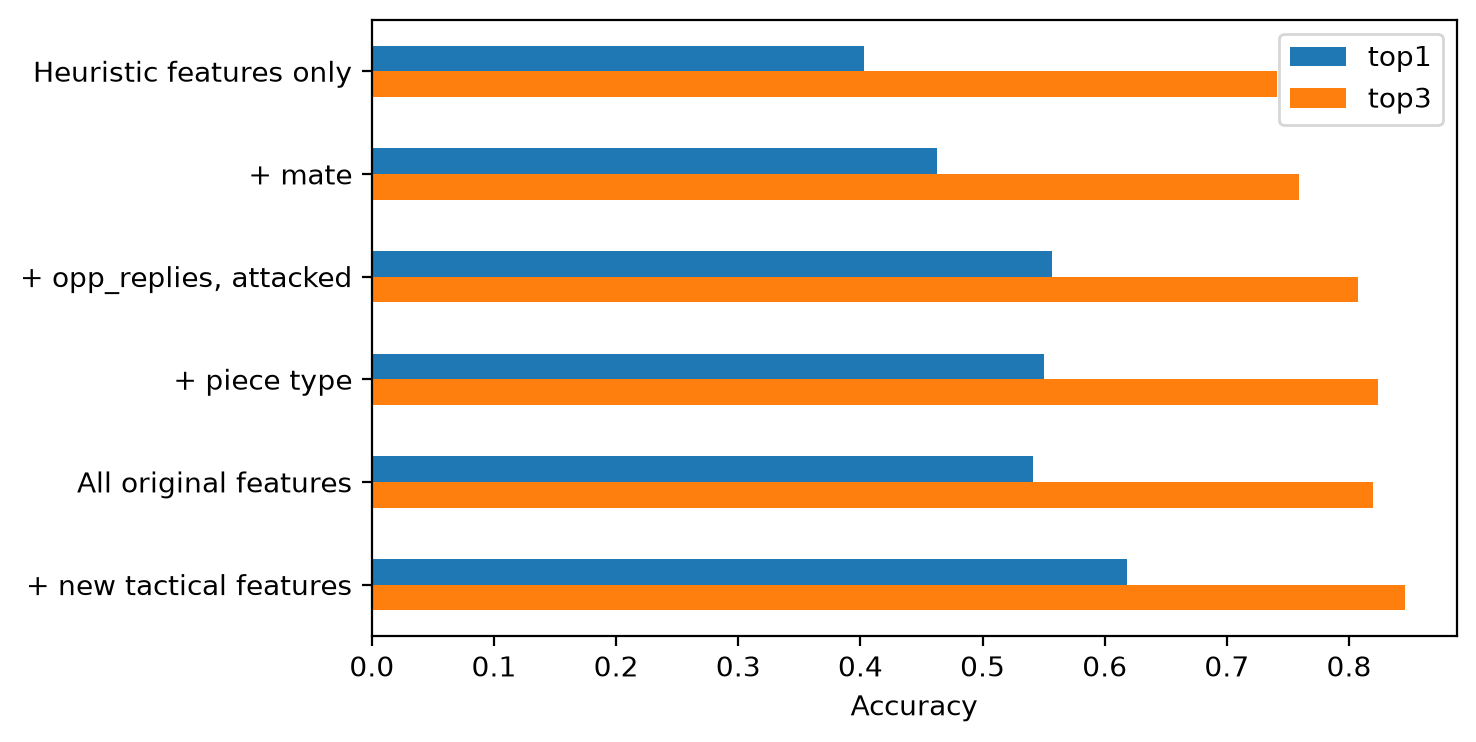
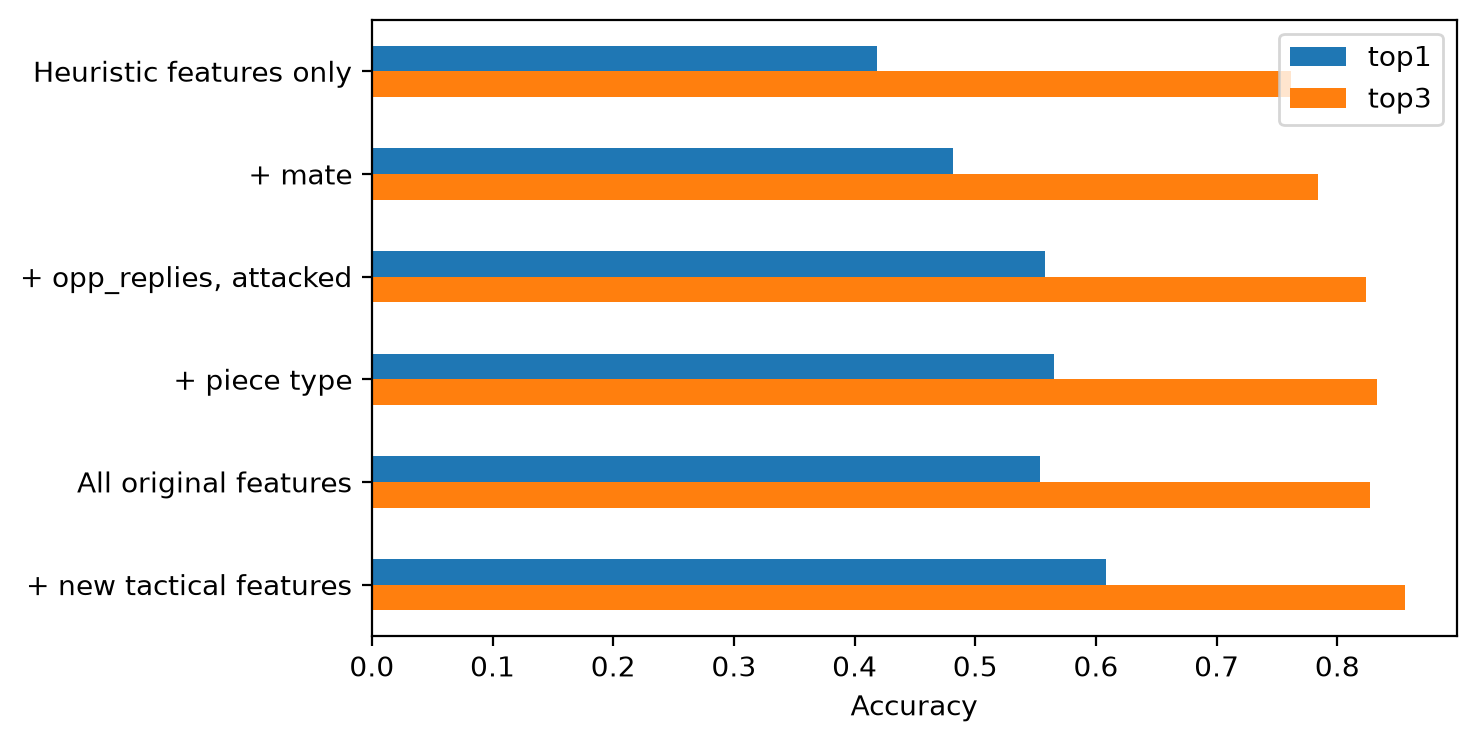
Fix tie-breaking in topk, rerun all results

diff --git a/src/chess_features.py b/src/chess_features.py
@@ -95,9 +95,9 @@ def split_by_puzzle(cand, test_size=0.2, seed=42):
 
 def topk(d, score, ks=(1, 3), seed=42):
     """Share of puzzles where the correct move is ranked within the top k."""
-    rng = np.random.default_rng(seed)
     d = d.copy()
-    d["_s"] = np.asarray(score) + rng.random(len(d)) * 1e-6   # random tie-break
+    d["_s"] = np.asarray(score)
+    d = d.sample(frac=1, random_state=seed)   # shuffle rows: ties are broken at random
     d["_r"] = d.groupby("PuzzleId")["_s"].rank(ascending=False, method="first")
     good = d[d["label"] == 1]
     return {f"top{k}": (good["_r"] <= k).mean() for k in ks}

diff --git a/results/table_ablation.tex b/results/table_ablation.tex
@@ -2,11 +2,11 @@
 \hline
 Features & Top-1 (\%) & Top-3 (\%) \\
 \hline
-Heuristic features only & 40.3 & 74.1 \\
-+ mate & 46.3 & 75.9 \\
-+ opp\_replies, attacked & 55.7 & 80.7 \\
-+ piece type & 55.0 & 82.4 \\
-All original features & 54.1 & 82.0 \\
-+ new tactical features & 61.8 & 84.6 \\
+Heuristic features only & 41.9 & 76.1 \\
++ mate & 48.1 & 78.4 \\
++ opp\_replies, attacked & 55.8 & 82.4 \\
++ piece type & 56.5 & 83.2 \\
+All original features & 55.4 & 82.8 \\
++ new tactical features & 60.9 & 85.6 \\
 \hline
 \end{tabular}
